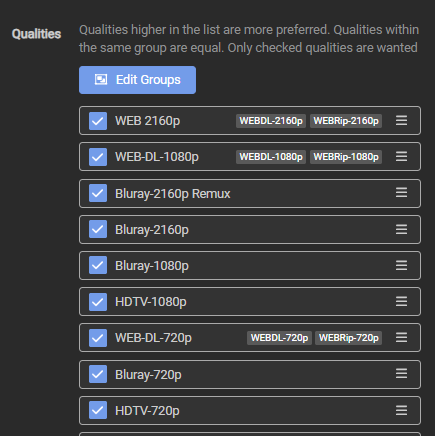
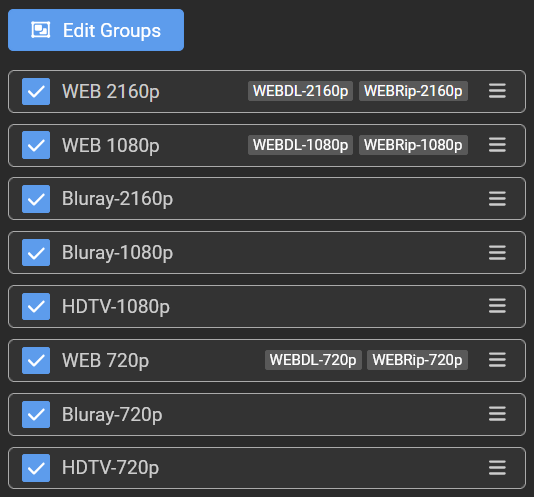
feat(sonarr): Remove Remuxes from Sonarr Alternative Quality Profiles (#2292)
- Remove text referring to 2160p Remuxes for Sonarr 2160p alternative quality profile
- Replace quality list image for Sonarr 2160p alternative quality profile

diff --git a/docs/Sonarr/sonarr-setup-quality-profiles.md b/docs/Sonarr/sonarr-setup-quality-profiles.md
@@ -168,7 +168,7 @@ Use the following main settings in your profile.
 
 !!! tip
 
-    You might want to combine the `WEB-720p/1080p` into a single Quality Profile if you, for example, want to be able to upgrade from 1080p to 4K/2160p when and if it becomes available after the 1080p release is made, and perhaps enable the `HDTV-720p/1080p` and/or `Bluray-720p/1080p` for some older shows, or even the `Bluray-2160p` and `Bluray-2160p Remux` quality source because you prefer HD audio. Depending on your preferences, you can put them above or below the `WEB-2160p`.
+    You might want to combine the `WEB-720p/1080p` into a single Quality Profile if you, for example, want to be able to upgrade from 1080p to 4K/2160p when and if it becomes available after the 1080p release is made, and perhaps enable the `HDTV-720p/1080p` and/or `Bluray-720p/1080p` for some older shows, or even the `Bluray-2160p` quality source because you prefer HD audio. Depending on your preferences, you can put them above or below the `WEB-2160p`.
 
     ![Alternative Option](images/cf-profile-alternative-web2160.png)
 
